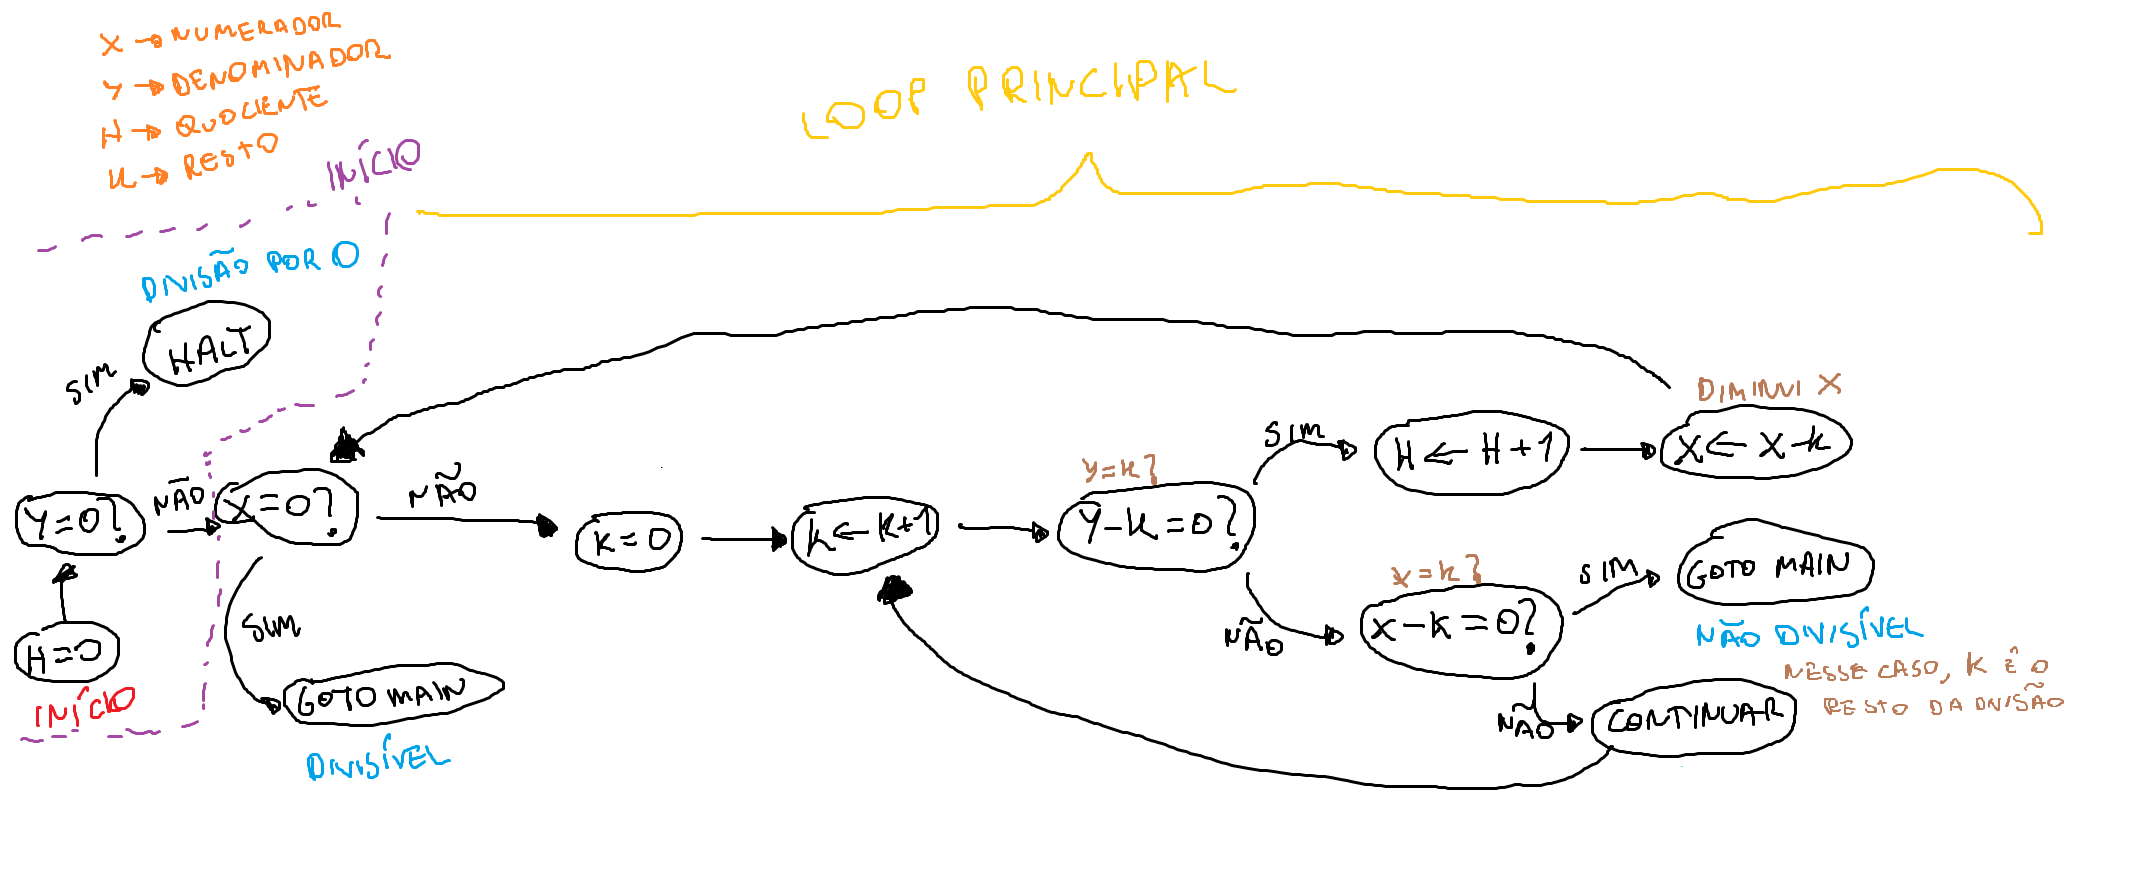
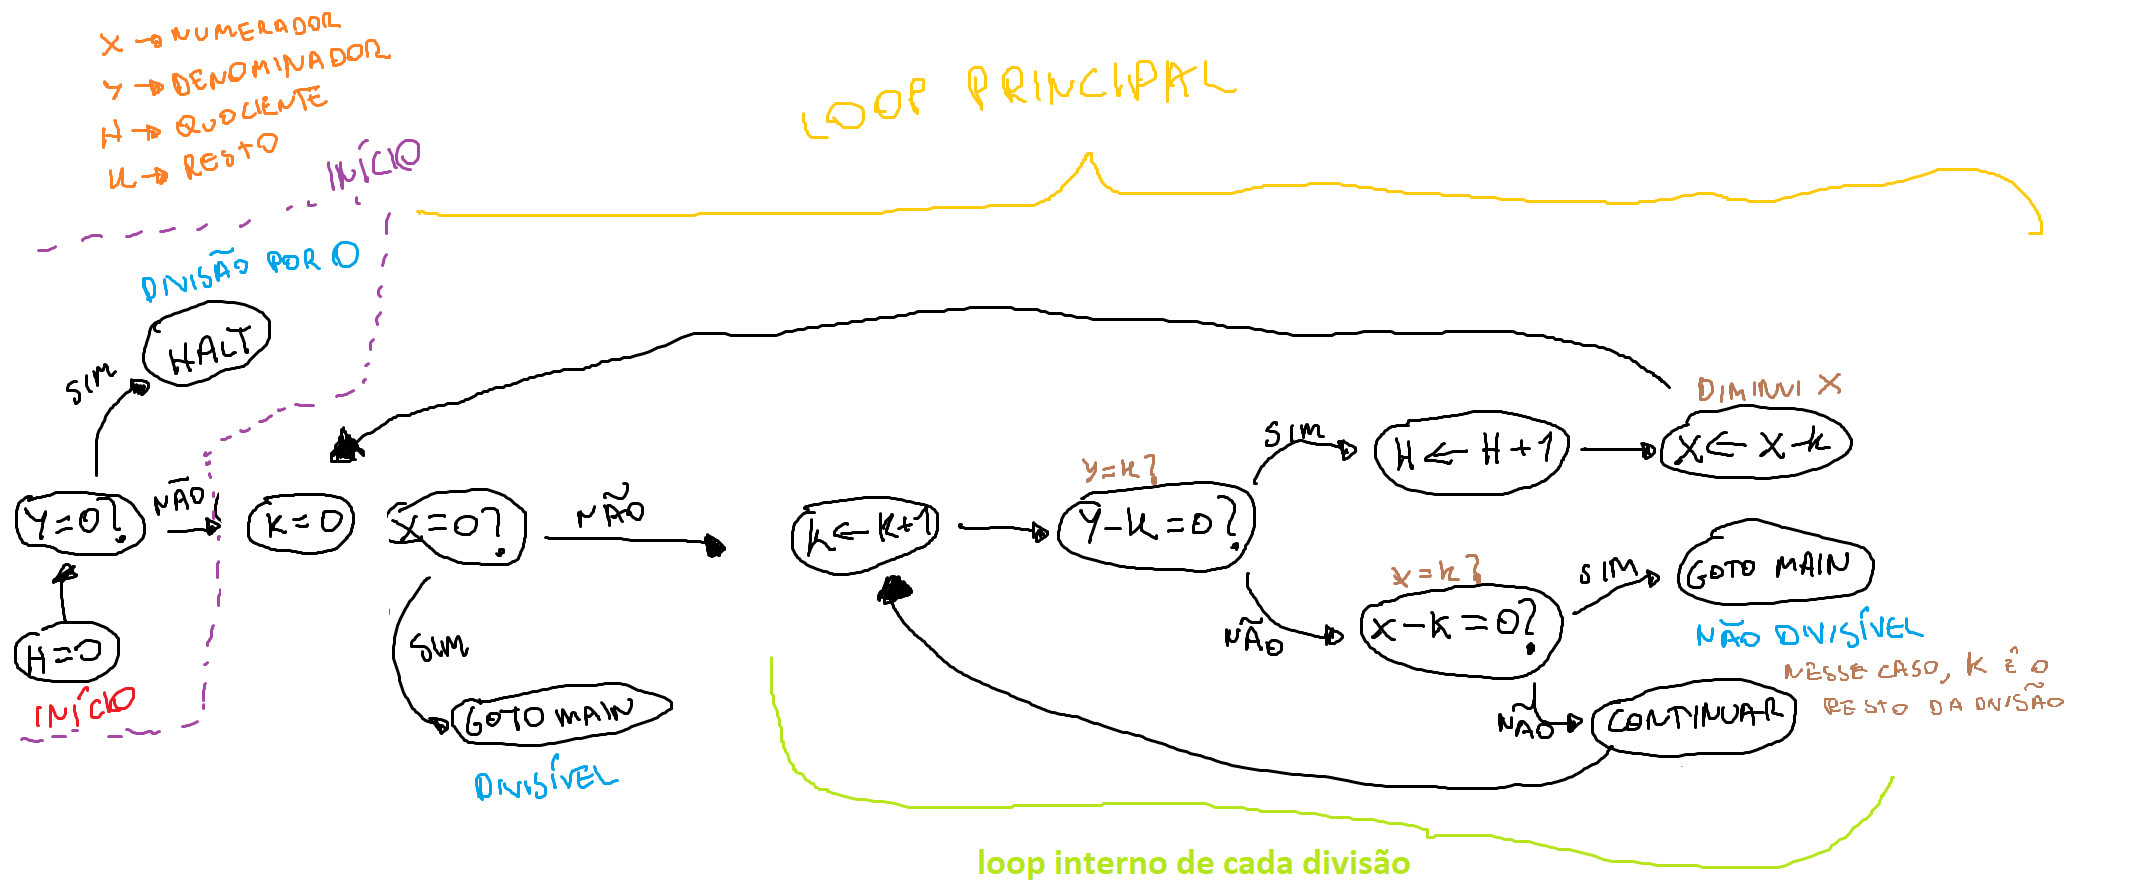
divisão corrigida

diff --git a/emulator/cpu_base.py b/emulator/cpu_base.py
@@ -287,6 +287,7 @@ class CPUBase:
     def _div_xy(self) -> None:
         """divXY
         Divide o valor de X por Y
+        Para mais detalhes, consultar fluxograma
         """
         # TODO:Não está funcionando
 
@@ -298,65 +299,74 @@ class CPUBase:
         )
 
         # Verifica se a divisão é válida
-        y0 = self._next_idx + 1
-        # 35: IF Y=0 GOTO y0; ELSE GOTO nxt
+        y_is_0 = self._next_idx + 257
+        # 35: IF Y=0 GOTO y_is_0; ELSE GOTO nxt
         self.firmware[self._next_idx - 1] = self._make_instruction(
             0b001_00_010100_0000000_000_100_000
         )
-        # y0: fetch;GOTO halt (Divisão por 0 -> Encerra o programa)
-        self.firmware[y0 + 256] = self._make_instruction(
+        # y_is_0: fetch; GOTO halt (Divisão por 0 -> Encerra o programa)
+        self.firmware[y_is_0] = self._make_instruction(
             0b000_00_110101_0000000_001_001_000, 255, False
         )
 
-        # Verifica se o numerador é 0
-        x0 = self._next_idx + 1
-        mark1 = self._next_idx
-        # 36: IF X=0 GOTO (x0); ELSE GOTO next
-        self.firmware[self._next_idx - 1] = self._make_instruction(
-            0b001_00_010100_0000000_000_011_000
-        )
-        # x0: fetch; GOTO main
-        self.firmware[x0 + 256] = self._make_instruction(
-            0b000_00_110101_0000000_001_001_000, 0
-        )
-
         # Zera K
-        start = self._next_idx
+        start = self._next_idx  # onde inicia cada divisão
         # 37: K<-0; GOTO next
         self.firmware[self._next_idx - 1] = self._make_instruction(
             0b000_00_010000_0000001_000_000_000
         )
-        # Incrementa K em 1
-        # 38: K<-K+1; GOTO next
+
+        # Verifica se o numerador é 0
+        end = self._next_idx + 257
+        start_div = self._next_idx  # onde inicia o loop de cada divisão
+        # start_div: IF X=0 GOTO (end); ELSE GOTO next
         self.firmware[self._next_idx - 1] = self._make_instruction(
-            0b000_00_111001_0000001_000_000_011
+            0b001_00_010100_0000000_000_011_000
+        )
+        # end: fetch; GOTO main -> Encerra a operação de divisão. Nesse caso, os números são divisíveis
+        self.firmware[end] = self._make_instruction(
+            0b000_00_110101_0000000_001_001_000, 0
         )
 
-        y_k0 = self._next_idx + 1
+        # Incrementa K em 1
+        inc_K = self._next_idx
+        # 38 inc_K: K<-K+1; GOTO next
+        self.firmware[self._next_idx - 1] = self._make_instruction(
+            0b000_00_111001_0000001_000_000_110
+        )
+
+        # Verifica se K já alcançou Y. Caso tenha alcançado, diminui X
+        inc_H = self._next_idx + 257
         # 39: IF Y-K=0 GOTO (y_k0);ELSE GOTO nxt
         self.firmware[self._next_idx - 1] = self._make_instruction(
-            0b001_00_111111_0000000_000_100_011
-        )
-        # y_k0: fetch; GOTO MAIN
-        self.firmware[y_k0 + 256] = self._make_instruction(
-            0b000_00_010100_0001000_001_000_000, 0
+            0b001_00_111111_0000000_000_100_110
         )
 
-        x_k0 = self._next_idx + 1
-        # 40: IF (X-K)=0 GOTO 289; ELSE GOTO 31
+        # > K != Y
+        # Verifica se K é X.
+        # Caso não seja, continua a divisão (incrementando K)
+        # Caso seja, encerra a divisão e isso indica que os números não são divisíveis
+        x_equal_k = self._next_idx + 257
+        # 40: IF (X-K)=0 GOTO 289; ELSE GOTO inc_K
         self.firmware[self._next_idx - 1] = self._make_instruction(
-            0b001_00_111111_0000000_000_011_110, start
+            0b001_00_111111_0000000_000_011_110, inc_K
         )
 
-        mark3 = self._next_idx
-        # 41: H <- H+1; GOTO mark1
-        self.firmware[self._next_idx - 1] = self._make_instruction(
-            0b000_00_111001_0000010_000_101_000, mark1
+        # >> K = X -> Não divisível
+        # fetch, GOTO end -> Encerra a operação de divisão
+        self.firmware[x_equal_k] = self._make_instruction(
+            0b000_00_110101_0000000_001_001_000, 0
         )
 
-        # x_k0: X <- X-Y; GOTO mark3;
-        self.firmware[x_k0 + 256] = self._make_instruction(
-            0b000_00_111111_0001000_000_011_100, mark3, False
+        # > K = Y
+        # inc_H: H <- H+1; GOTO sub_XY
+        self.firmware[inc_H] = self._make_instruction(
+            0b000_00_111001_0000010_000_101_000,
+        )
+
+        # sub_XY: X <- X-Y; GOTO start
+        self.firmware[self._next_idx] = self._make_instruction(
+            0b000_00_111111_0001000_000_011_100, start, False
         )
 
     def _mem_H(self) -> None:
